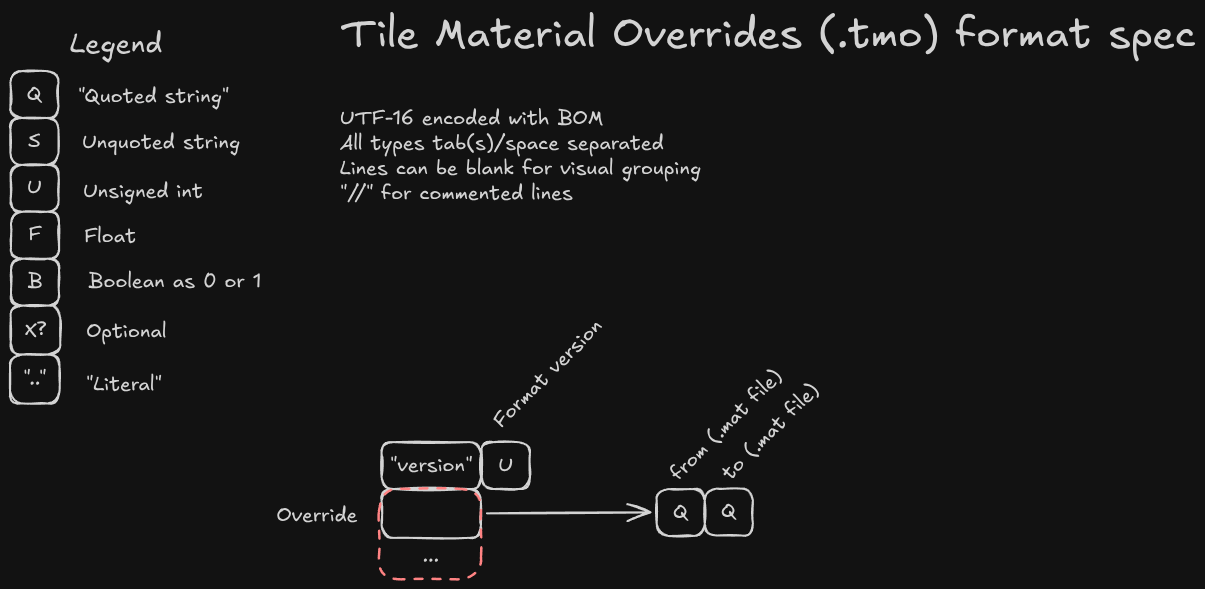
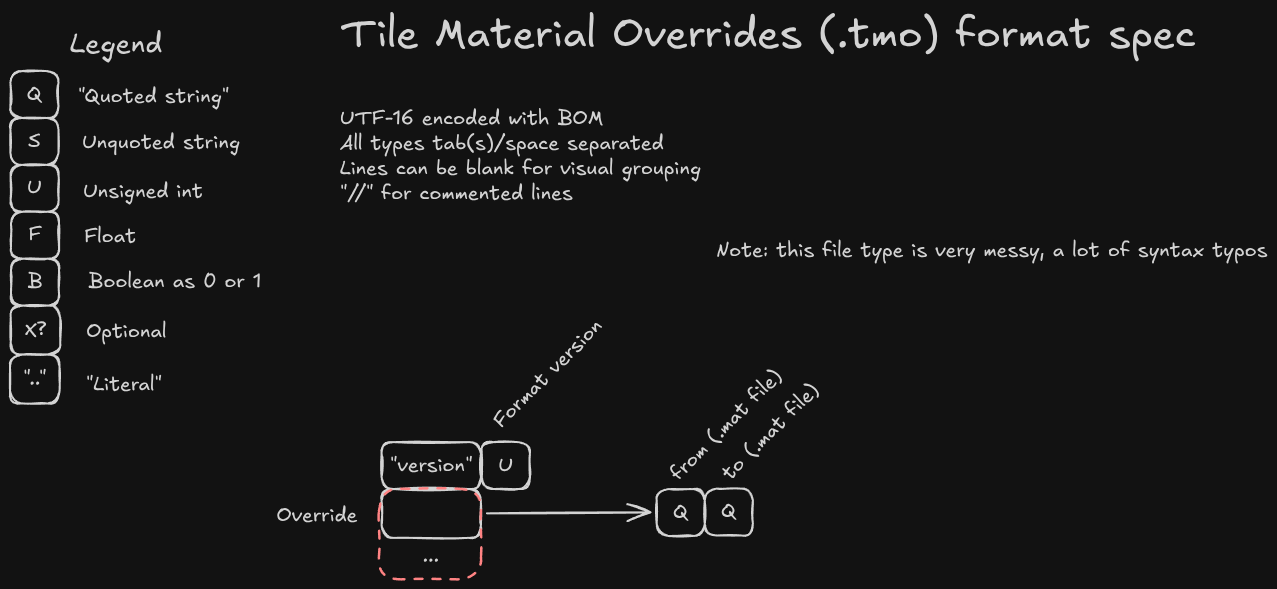
Update TMO with poe2 testing

diff --git a/src/file_parsers/tmo/parser.rs b/src/file_parsers/tmo/parser.rs
@@ -1,8 +1,9 @@
 use anyhow::{Result, anyhow};
 use winnow::{
     Parser,
-    ascii::space1,
-    combinator::{repeat, separated_pair},
+    ascii::space0,
+    combinator::{repeat, separated_pair, terminated},
+    token::rest,
 };
 
 use super::types::*;
@@ -25,10 +26,20 @@ pub fn parse_tmo_str(contents: &str) -> Result<TMOFile> {
 
     let mut parser = repeat(
         0..,
-        lift(separated_pair(
-            quoted('"').and_then(filename("mat")),
-            space1,
-            quoted('"').and_then(filename("mat")),
+        lift(terminated(
+            separated_pair(
+                quoted('"').and_then(filename("mat")),
+                // NOTE: Edge case: missing space between files
+                space0,
+                quoted('"').and_then(filename("mat")),
+            ),
+            // NOTE: Edge case: Sometimes some extra crap at the end
+            rest.verify(|crap: &str| {
+                if !crap.is_empty() {
+                    eprintln!("WARN: Extra crap found: {crap:?}");
+                }
+                true
+            }),
         ))
         .map(|(from, to)| Override { from, to }),
     )
